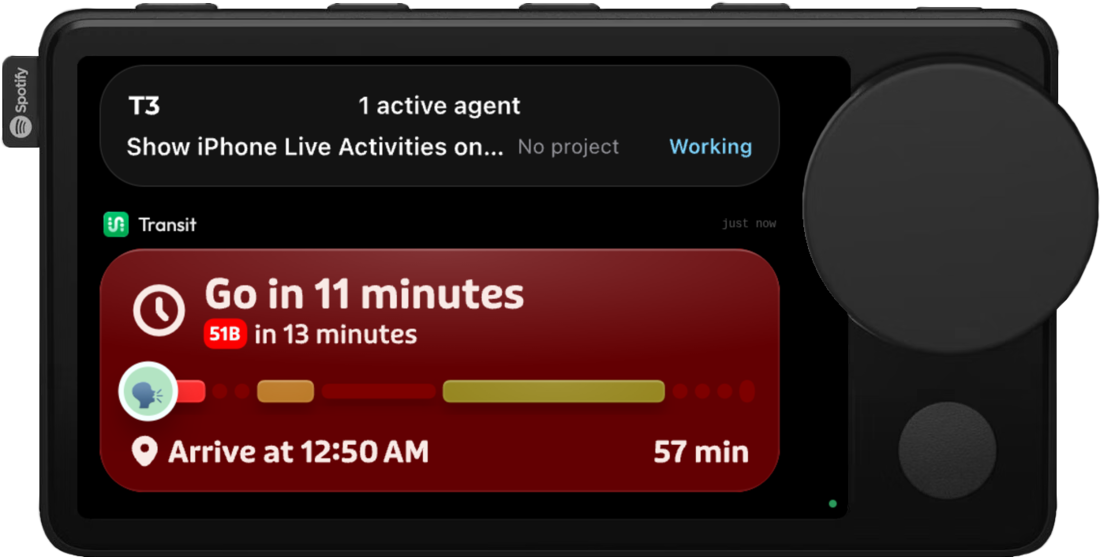
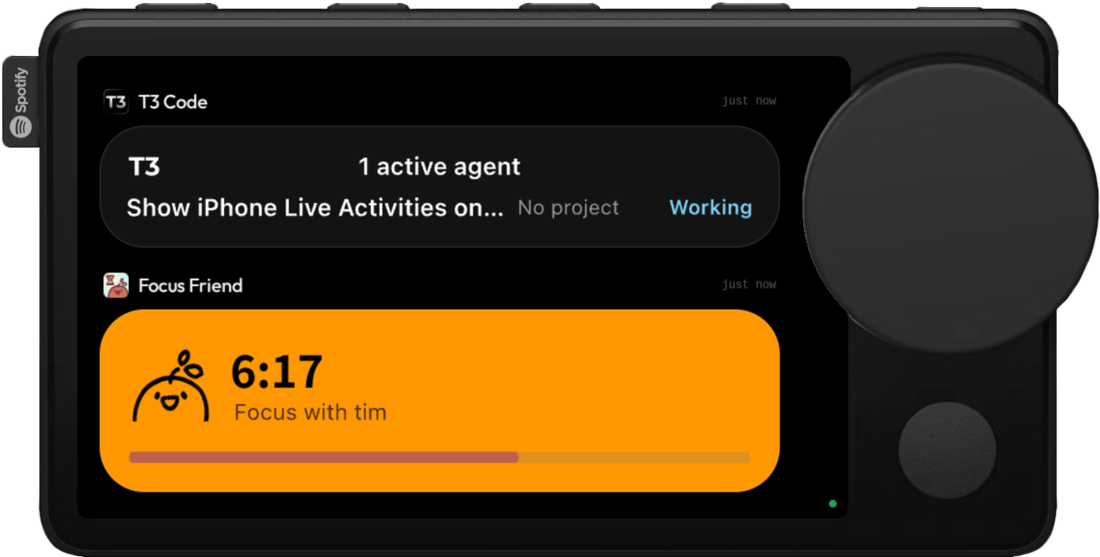
README: pair T3 Code with Focus Friend, show Transit on its own

diff --git a/README.md b/README.md
@@ -11,8 +11,8 @@ the system's own store, decodes Apple's undocumented format, and hands them to t
 graphics at its own resolution, with the live parts still live.
 
 <p>
-  <img src="docs/images/1-pair.png" width="49%" alt="A T3 Code agent run above a multi-leg Transit trip with walking dots, ride segments and a transfer" />
-  <img src="docs/images/2-focus.png" width="49%" alt="A Focus Friend countdown with its tinted card and live progress bar" />
+  <img src="docs/images/1-pair.png" width="49%" alt="A T3 Code agent run above a Focus Friend countdown with its tinted card and live progress bar" />
+  <img src="docs/images/2-transit.png" width="49%" alt="A multi-leg Transit trip with walking dots, ride segments and a transfer" />
 </p>
 
 ## Requirements
